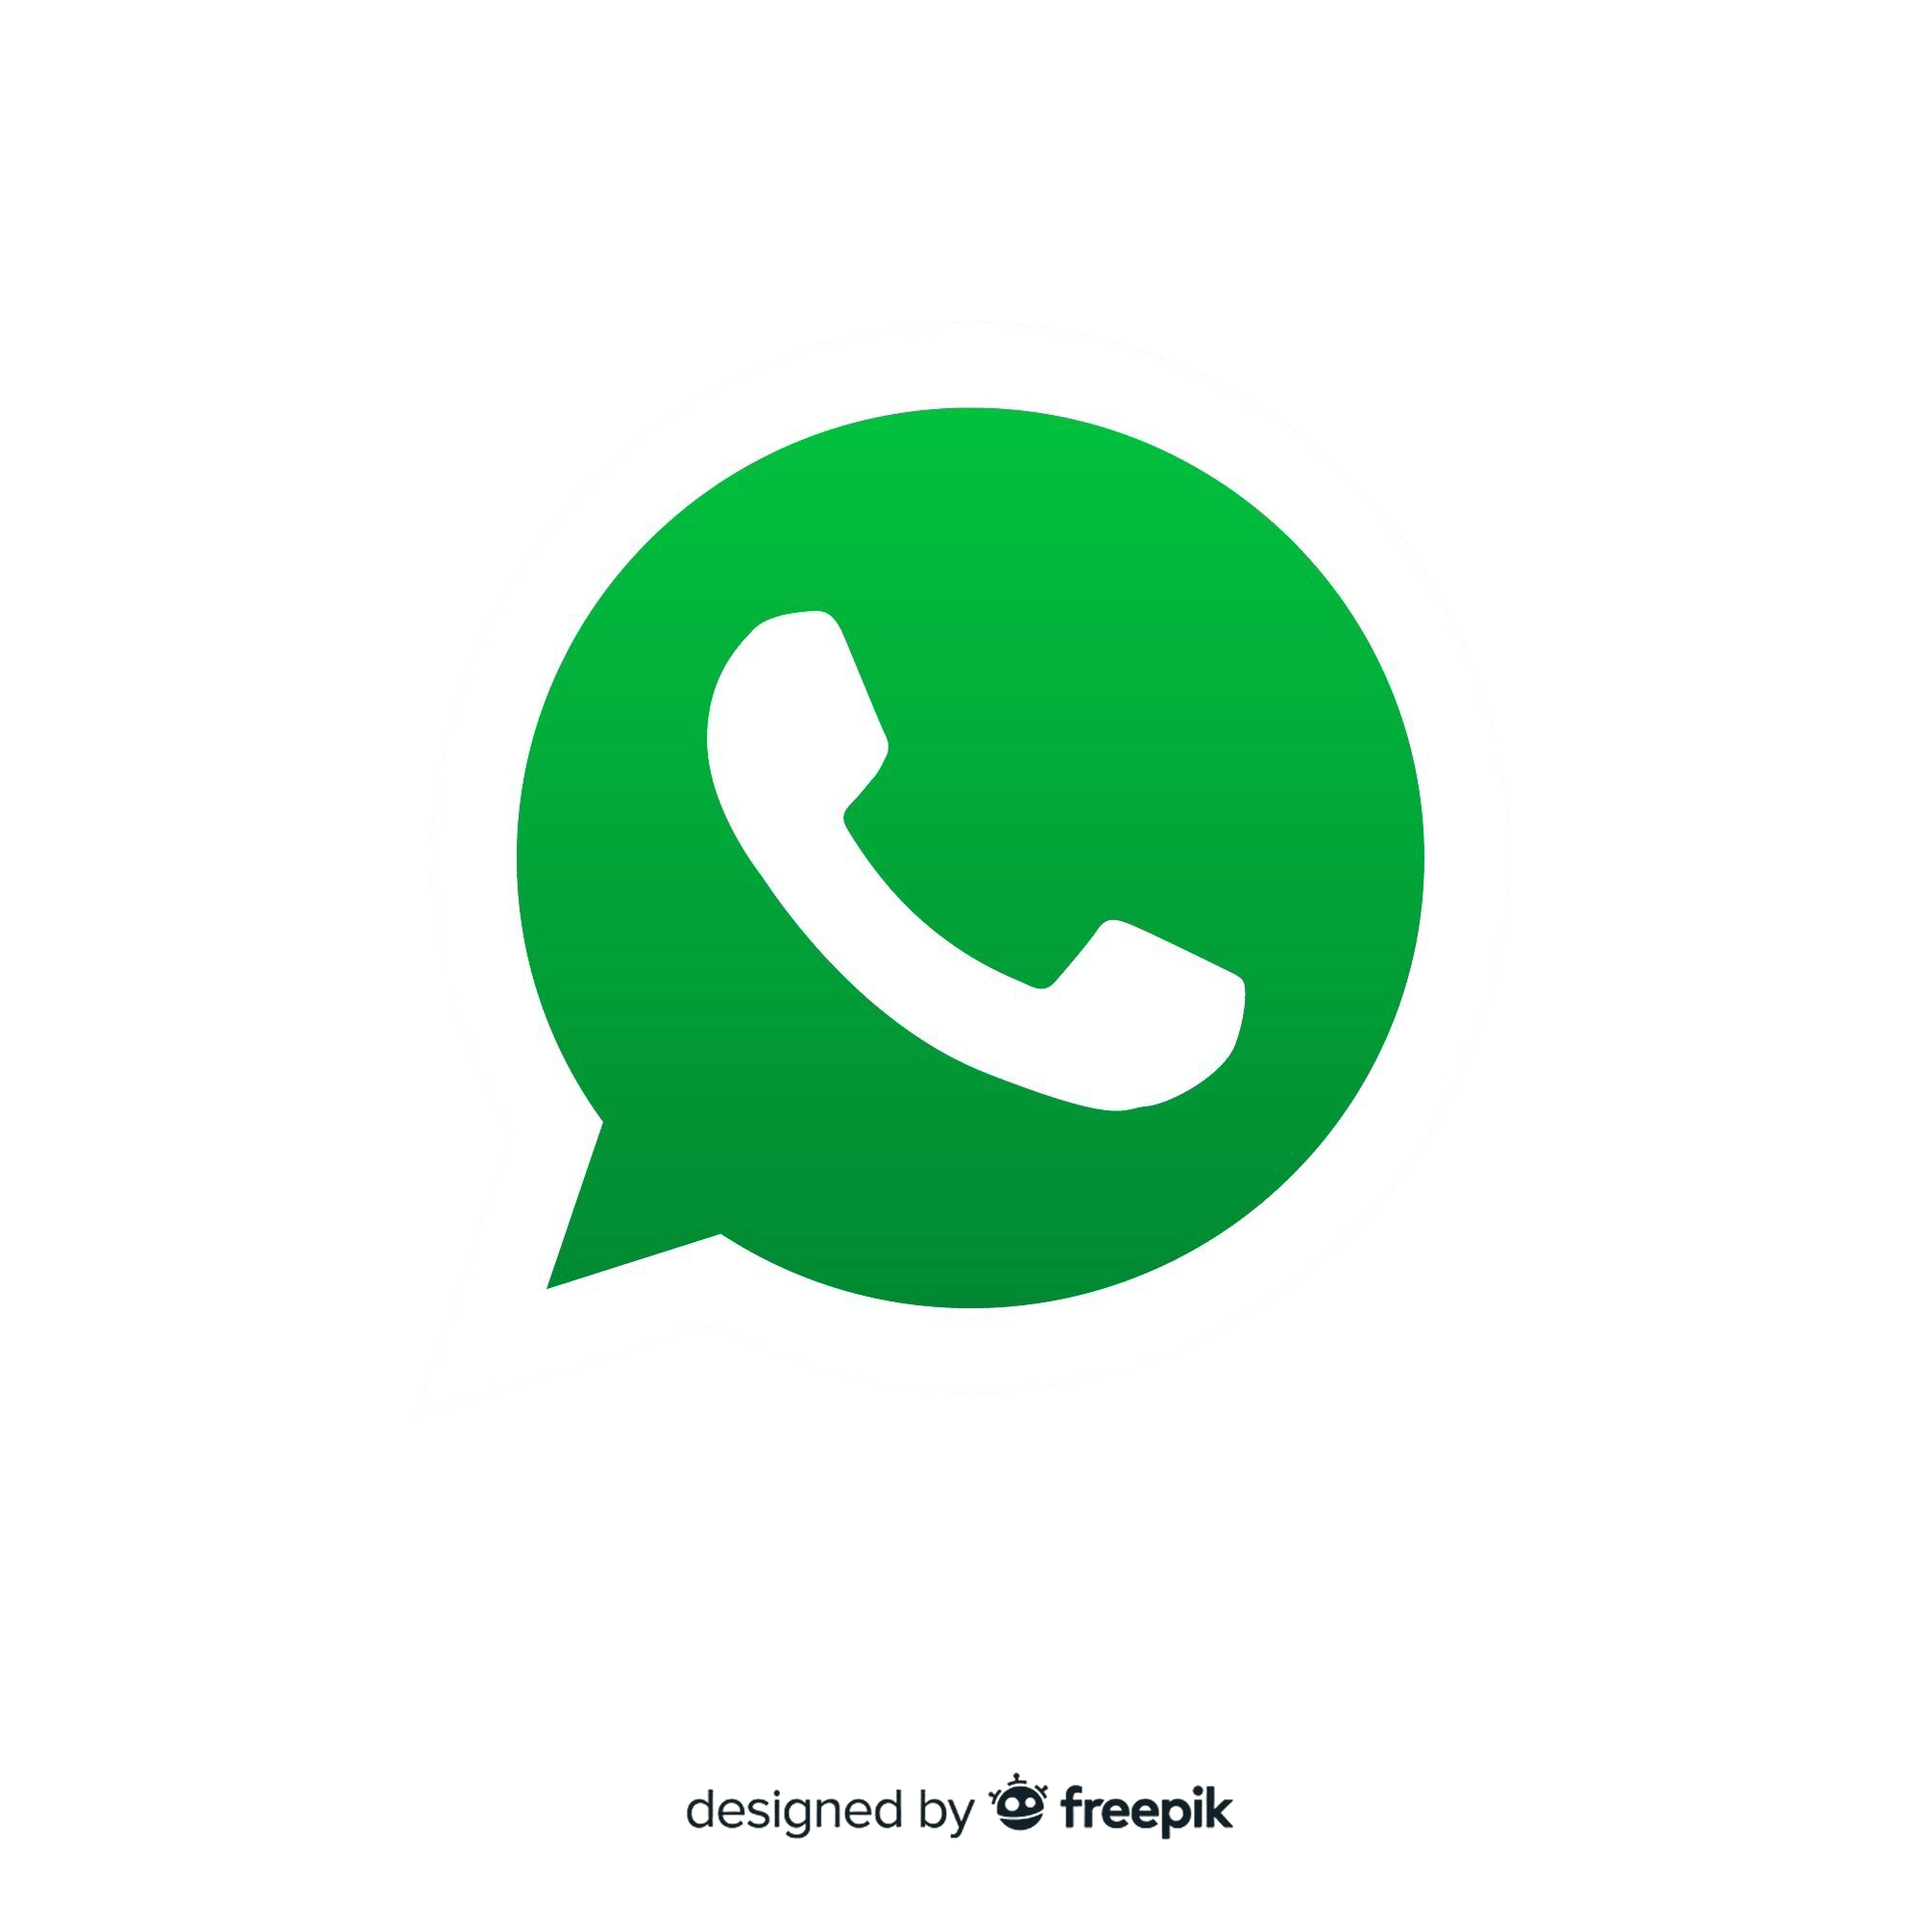
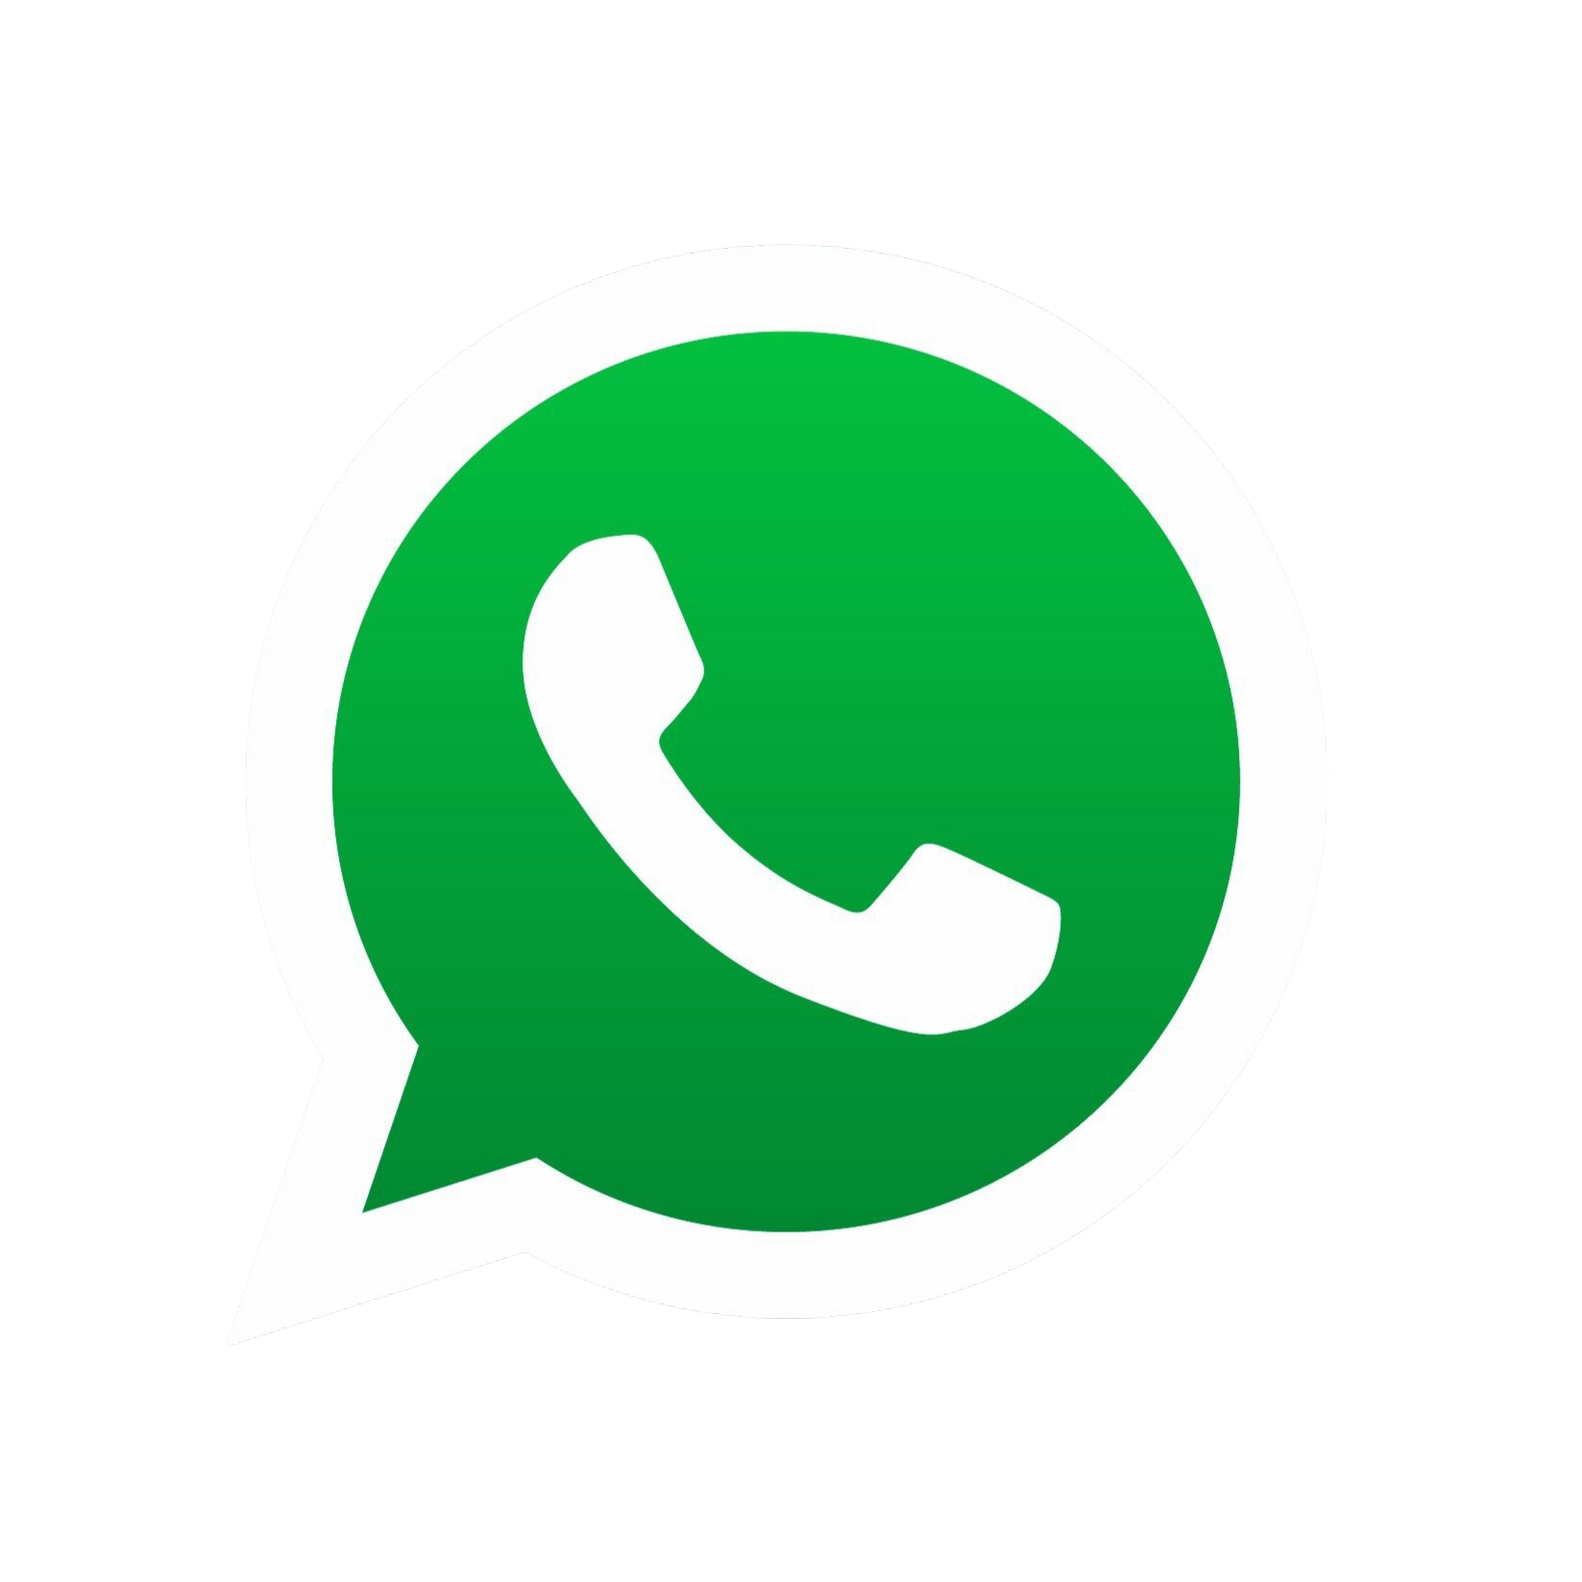
Update Whatsapp Floating Button

Changed region(s): [[0.1858, 0.1858, 0.8051, 0.8051], [0.3406, 0.929, 0.6503, 0.9599], [0.5574, 0.2168, 0.6812, 0.2787]]

diff --git a/src/components/Header.js b/src/components/Header.js
@@ -711,7 +711,17 @@ const Header = React.memo(() => {
                 }
               }}
             >
-              <WhatsAppIcon sx={{ fontSize: 20, mr: 1 }} />
+              <Box
+                component="img"
+                src="/images/jw/whatsapp-icon-design.png"
+                alt="WhatsApp"
+                sx={{
+                  width: '24px',
+                  height: 'auto',
+                  objectFit: 'contain',
+                  mr: 1
+                }}
+              />
               Message Us
             </Box>
           </Box>
@@ -730,36 +740,49 @@ const Header = React.memo(() => {
             bottom: '30px',
             right: '30px',
             zIndex: 1500,
-            backgroundColor: '#25D366',
-            color: 'white',
-            borderRadius: '50px',
-            padding: '10px 24px',
-            boxShadow: '0 4px 15px rgba(37, 211, 102, 0.4)',
             display: 'flex',
             alignItems: 'center',
-            gap: '12px',
-            fontWeight: 600,
             textDecoration: 'none',
-            transition: 'all 0.3s ease',
             cursor: 'pointer',
+            transition: 'transform 0.3s ease',
             '&:hover': {
               transform: 'scale(1.05)',
-              boxShadow: '0 6px 20px rgba(37, 211, 102, 0.6)',
-              backgroundColor: '#20bd5a',
             }
           }}
         >
+          {/* Overlapping Icon */}
           <Box
             component="img"
             src="/images/jw/whatsapp-icon-design.png"
             alt="WhatsApp"
             sx={{
-              width: '28px',
+              width: '60px',
               height: 'auto',
-              objectFit: 'contain'
+              objectFit: 'contain',
+              zIndex: 2,
+              marginRight: '-22px', // Overlap the pill
+              filter: 'drop-shadow(0 4px 6px rgba(0,0,0,0.15))'
             }}
           />
-          Message Us
+
+          {/* Text Pill */}
+          <Box
+            sx={{
+              backgroundColor: '#25D366',
+              background: 'linear-gradient(135deg, #25D366 0%, #128C7E 100%)',
+              color: 'white',
+              borderRadius: '30px',
+              padding: '12px 24px 12px 32px', // Extra left padding for overlap
+              fontWeight: 600,
+              fontSize: '1rem',
+              boxShadow: '0 4px 15px rgba(37, 211, 102, 0.4)',
+              zIndex: 1,
+              display: 'flex',
+              alignItems: 'center',
+            }}
+          >
+            Message Us
+          </Box>
         </Box>
       )}
     </>
